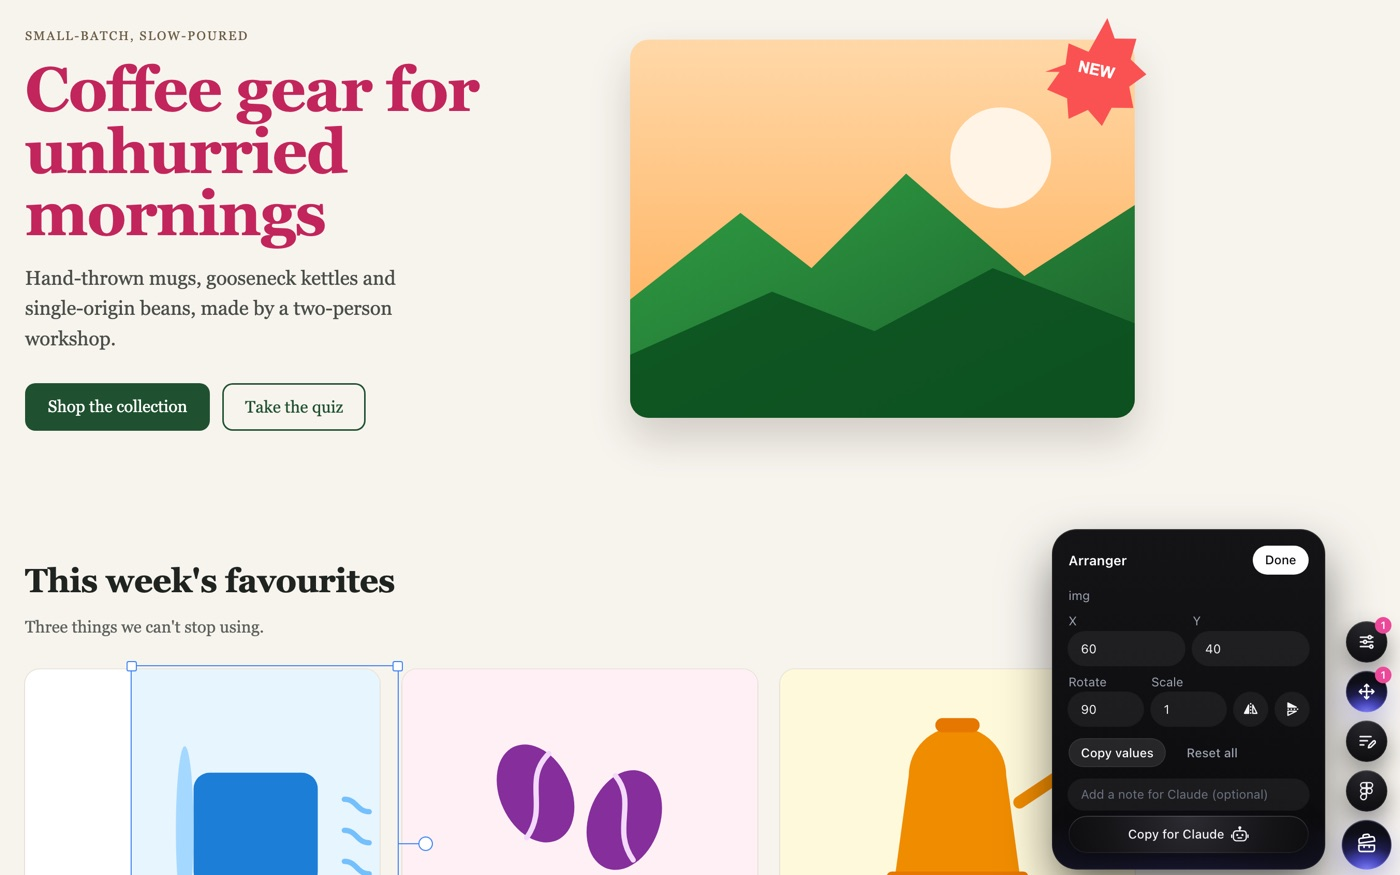
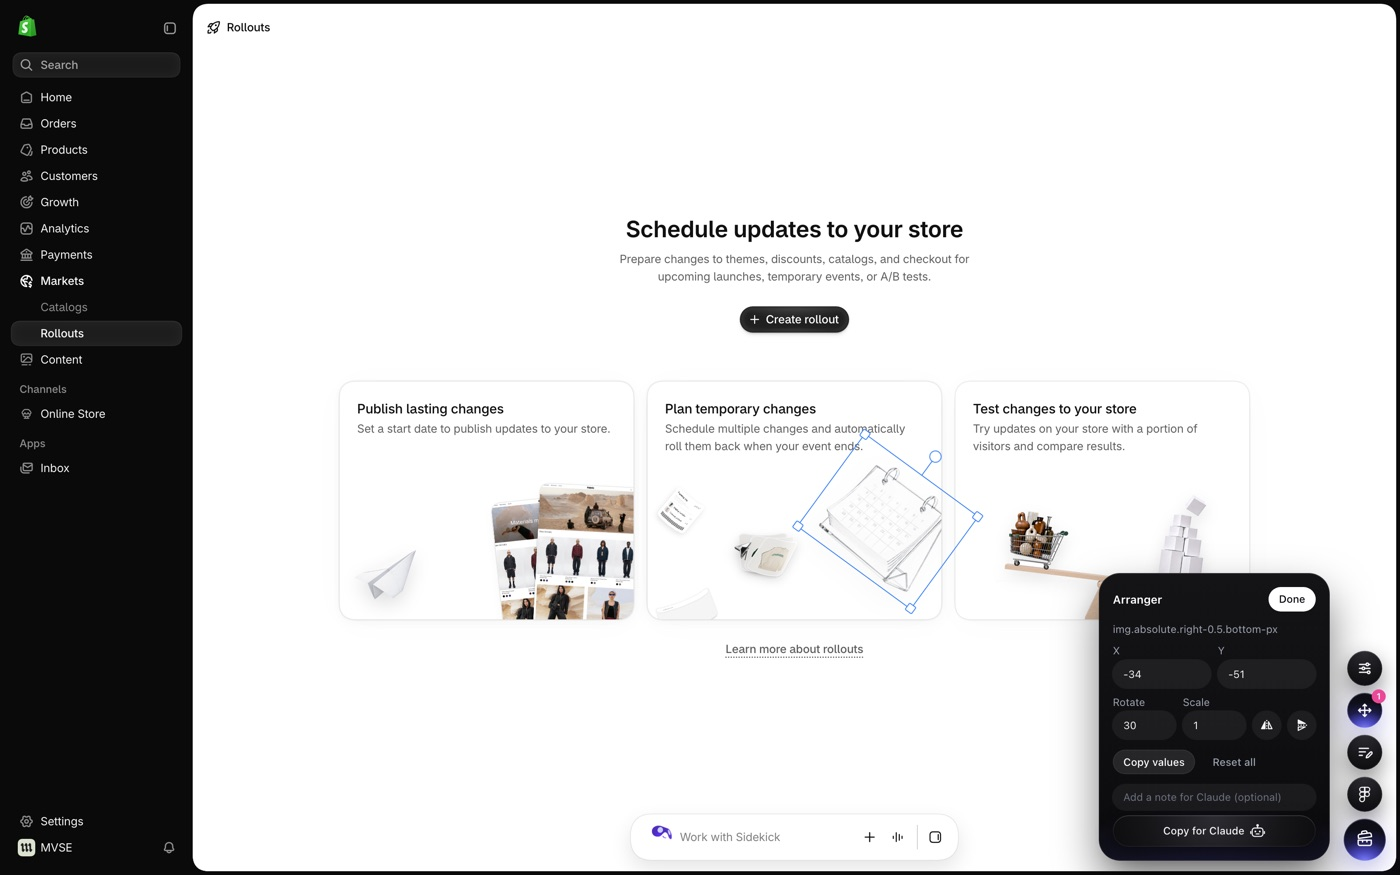
Landing page examples: the tools on admin pages

diff --git a/site/index.html b/site/index.html
@@ -59,7 +59,7 @@
 
   .tools { display: grid; grid-template-columns: repeat(2, 1fr); gap: 20px; text-align: left; }
   .tool { margin: 0; background: var(--surface); border: 1px solid var(--line); border-radius: 16px; overflow: hidden; }
-  .tool img, .tool pre { display: block; width: 100%; aspect-ratio: 1400 / 875; margin: 0; border-bottom: 1px solid var(--line); }
+  .tool img, .tool pre { display: block; width: 100%; aspect-ratio: 1600 / 1000; margin: 0; border-bottom: 1px solid var(--line); }
   .tool img { object-fit: cover; }
   .tool figcaption { padding: 16px 20px 18px; text-align: center; }
   .tool strong { display: block; font-weight: 600; }
@@ -118,33 +118,33 @@
   <h2>Tools</h2>
   <div class="tools">
     <figure class="tool">
-      <img src="examples/style-tweaker.jpg" alt="The style tweaker panel editing a headline's size, weight and colour" loading="lazy">
+      <img src="examples/style-tweaker.jpg" alt="The style tweaker recolouring the Rollouts headline in the admin" loading="lazy">
       <figcaption><strong>Style tweaker</strong><span>Adjust spacing, type, colour and corners. Copies as CSS or Tailwind.</span></figcaption>
     </figure>
     <figure class="tool">
-      <img src="examples/arranger.jpg" alt="The Arranger rotating a product image, with a sticker moved onto the hero" loading="lazy">
+      <img src="examples/arranger.jpg" alt="The Arranger moving and rotating the calendar illustration on the Rollouts page" loading="lazy">
       <figcaption><strong>Arranger</strong><span>Move, scale and rotate anything. Copies as JSON.</span></figcaption>
     </figure>
     <figure class="tool">
-      <img src="examples/content-editor.jpg" alt="The content editor renaming Harbour Mug to Tidepool Mug" loading="lazy">
+      <img src="examples/content-editor.jpg" alt="The content editor rewriting the Rollouts headline and a card title" loading="lazy">
       <figcaption><strong>Content editor</strong><span>Click text and type over it. Copies a before → after list.</span></figcaption>
     </figure>
     <figure class="tool">
-      <img src="examples/figma-pick.jpg" alt="Copy to Figma outlining a row of product cards" loading="lazy">
+      <img src="examples/figma.jpg" alt="Copy to Figma outlining the Changes list on a new rollout" loading="lazy">
       <figcaption><strong>Copy to Figma</strong><span>Paste a section or the whole page into Figma as layers.</span></figcaption>
     </figure>
     <figure class="tool wide">
 <pre>{
   <b>"tool"</b>: <i>"Content editor"</i>,
-  <b>"note"</b>: <i>"Use the new name everywhere"</i>,
+  <b>"note"</b>: <i>"Shorter headline"</i>,
   <b>"data"</b>: {
     <b>"edits"</b>: [{
-      <b>"selector"</b>: <i>".card:nth-child(1) h3"</i>,
-      <b>"before"</b>: <i>"Harbour Mug"</i>,
-      <b>"after"</b>: <i>"Tidepool Mug"</i>
+      <b>"selector"</b>: <i>"main h1"</i>,
+      <b>"before"</b>: <i>"Schedule updates to your store"</i>,
+      <b>"after"</b>: <i>"Plan your next launch"</i>
     }]
   },
-  <b>"page"</b>: <i>"https://…/sample.html"</i>
+  <b>"page"</b>: <i>"https://…/store/markets/rollouts"</i>
 }</pre>
       <figcaption><strong>Send to Claude</strong><span>Every tool ends with a button that copies your changes as JSON, with a selector for each element. Paste it into your coding agent to make the change for real.</span></figcaption>
     </figure>
